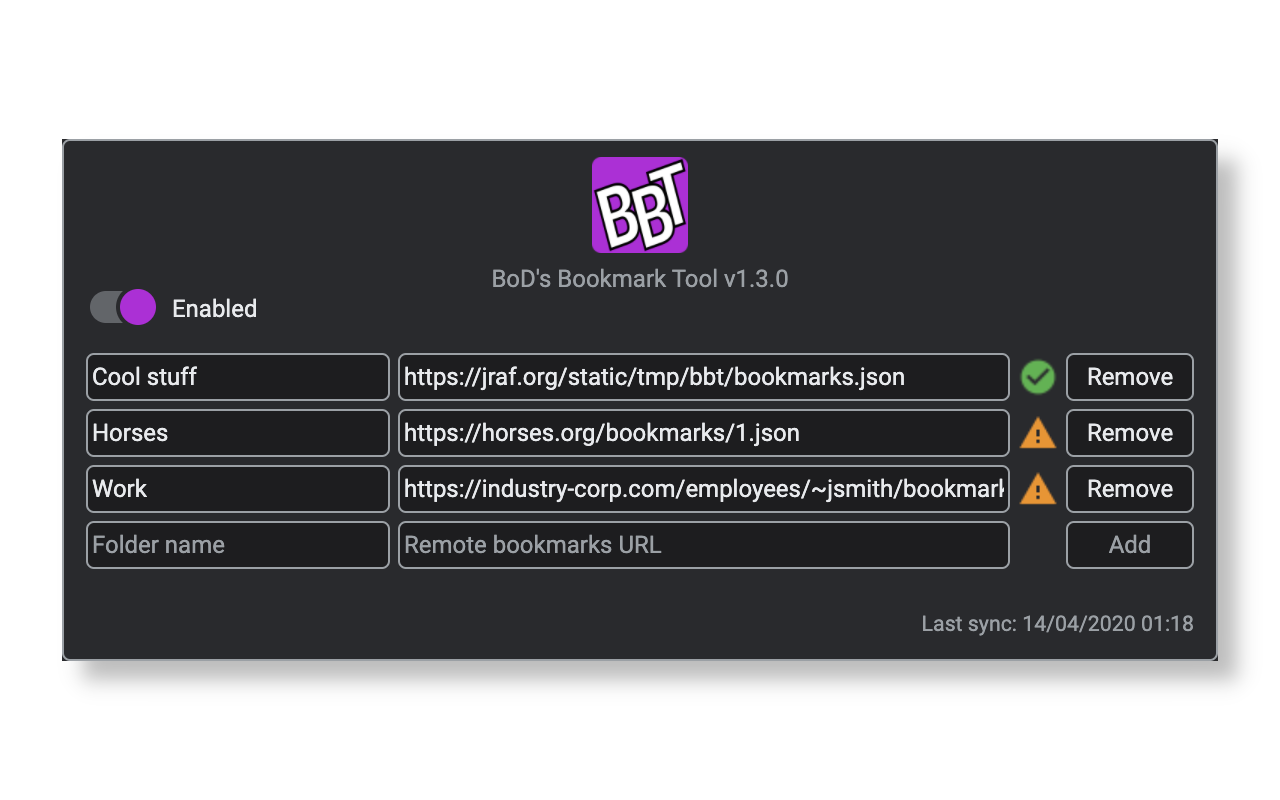
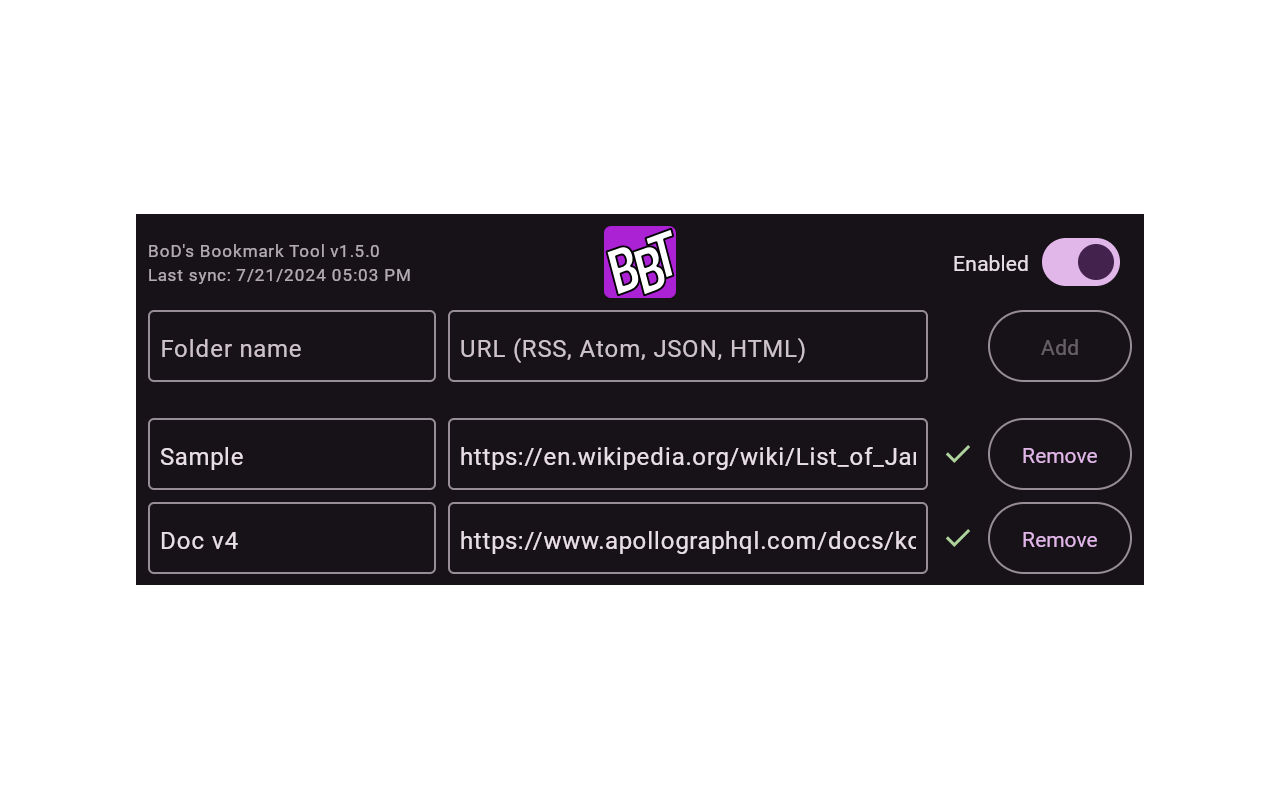
Accept list of A in XPath

diff --git a/offscreen/src/jsMain/kotlin/org/jraf/bbt/offscreen/domparser/DomParserBookmarkExtractor.kt b/offscreen/src/jsMain/kotlin/org/jraf/bbt/offscreen/domparser/DomParserBookmarkExtractor.kt
@@ -30,8 +30,10 @@ import org.jraf.bbt.shared.bookmarks.BookmarksDocument
 import org.jraf.bbt.shared.logging.logd
 import org.jraf.bbt.shared.logging.logw
 import org.jraf.bbt.shared.util.relativeTo
+import org.w3c.dom.Document
 import org.w3c.dom.Element
 import org.w3c.dom.HTMLAnchorElement
+import org.w3c.dom.Node
 import org.w3c.dom.XMLDocument
 import org.w3c.dom.asList
 import org.w3c.dom.evaluate
@@ -80,7 +82,9 @@ class DomParserBookmarkExtractor {
 
   /**
    * Extract bookmarks from a body that is an HTML document.
-   * If [xPath] is not null, only the element at this XPath will be considered.
+   * If [xPath] is not null, only the element(s) at this XPath will be considered.
+   *
+   * The XPath expression can either point to a list of `A` elements, or to a single (non `A`) element in which case, a list of `A` elements will be searched in its children.
    */
   fun extractBookmarksFromHtml(
     body: String,
@@ -89,34 +93,21 @@ class DomParserBookmarkExtractor {
   ): BookmarksDocument? {
     return try {
       val document = DOMParser().parseFromString(body, "text/html")
-      val root = if (xPath != null) {
-        // TODO XPath should return a list of <A>s, instead of returning the root from where to extract the <A>s
+      val aElems: List<Element> = if (xPath != null) {
         logd("Using XPath expression: $xPath")
-        val element = try {
-          val xPathResult = document.evaluate(xPath, document, null, XPathResult.FIRST_ORDERED_NODE_TYPE, null)
-          xPathResult.singleNodeValue as? Element
-        } catch (t: Throwable) {
-          logw("Error evaluating XPath expression '$xPath': ${t.message} %O", t.stackTraceToString())
-          return null
-        }
-        if (element == null) {
-          logw("Node at XPath expression '$xPath' not found or not an Element")
-          return null
-        } else {
-          element
-        }
+        document.getAElementsAtXPath(xPath) ?: return null
       } else {
-        document.body
-      } ?: run {
-        logw("No body found in the document")
-        return null
+        (document.body ?: run {
+          logw("No body found in the document")
+          return null
+        }).getElementsByTagName("a").asList()
       }
-      val aElems = root.getElementsByTagName("a").asList()
+
       logd("Found ${aElems.size} <a> elements")
       BookmarksDocument(
         bookmarks = aElems.mapNotNull { aElem ->
           aElem as HTMLAnchorElement
-          val title = aElem.textContent?.trim()?.ifBlank { null } ?: "Untitled"
+          val title = aElem.innerText.trim().ifBlank { "Untitled" }
           BookmarkItem(
             title = title,
             url = aElem.getAttribute("href")
@@ -131,5 +122,49 @@ class DomParserBookmarkExtractor {
       logw("Text can't be parsed as HTML: ${t.message} %O", t.stackTraceToString())
       null
     }
+  }
+
+  private fun Document.getAElementsAtXPath(xPath: String): List<HTMLAnchorElement>? {
+    return try {
+      val nodesAtXpath = getNodesAtXPath(xPath)
+      if (nodesAtXpath.size == 1) {
+        // Single element
+        val singleNode = nodesAtXpath[0]
+        if (singleNode is HTMLAnchorElement) {
+          // Single A
+          nodesAtXpath
+        } else {
+          // Single non-A
+          val singleElement = singleNode as? Element
+          if (singleElement == null) {
+            logw("Element at XPath is not an Element: $singleNode")
+            null
+          } else {
+            singleElement.getElementsByTagName("a").asList()
+          }
+        }
+      } else {
+        // Multiple elements
+        nodesAtXpath
+      }?.filterIsInstance<HTMLAnchorElement>()
+    } catch (t: Throwable) {
+      logw("Error evaluating XPath expression '$xPath': ${t.message} %O", t.stackTraceToString())
+      null
+    }
+  }
+
+  private fun Document.getNodesAtXPath(xPath: String): MutableList<Node> {
+    val xPathResult = evaluate(xPath, this, null, XPathResult.ANY_TYPE, null)
+    logd("XPath result type: ${xPathResult.resultType}")
+    val nodesAtXpath = mutableListOf<Node>()
+    var node: Node?
+    while (true) {
+      node = xPathResult.iterateNext()
+      if (node == null) {
+        break
+      }
+      nodesAtXpath.add(node)
+    }
+    return nodesAtXpath
   }
 }

diff --git a/shared/src/jsMain/kotlin/org/jraf/bbt/shared/settings/SettingsManager.kt b/shared/src/jsMain/kotlin/org/jraf/bbt/shared/settings/SettingsManager.kt
@@ -79,7 +79,7 @@ class SettingsManager private constructor() {
         syncItems = listOf(
           SyncItem(
             folderName = "Sample",
-            remoteBookmarksUrl = "https://en.wikipedia.org/wiki/Wikipedia:Featured_articles#__xpath=//h3[@data-mw-thread-id='h-Elements-Chemistry_and_mineralogy']/following-sibling::*[1]"
+            remoteBookmarksUrl = "https://en.wikipedia.org/wiki/List_of_James_Bond_films#__xpath=//table//th/i//a"
           )
         )
       )

diff --git a/README.md b/README.md
@@ -1,17 +1,32 @@
 # BoD's Bookmark Tool
 
-This very small and simple extension for Chrome and Firefox allows you to synchronize any bookmark folder with a remote file.
+This small extension for Chrome and Firefox allows you to synchronize any bookmark folder with a remote document.
 
 Ideal to share a bunch of bookmarks with your team at work, or your loved ones!
+
+<img src="https://raw.githubusercontent.com/BoD/bbt/master/assets/Screenshot-firefox.png" alt="BoD's Bookmark Tool" width="504">
 
 ## Setup
 
 - Chrome: [Chrome Web Store](https://chrome.google.com/webstore/detail/plhhpanklegnkjipjebhdbcfdjdhkpfb).
 - Firefox: [Firefox Add-ons](https://addons.mozilla.org/en-US/firefox/addon/bod-s-bookmark-tool/).
 
-## Remote file format
+## Supported remote document formats
 
-The remote file can either be RSS, Atom, or a proprietary "bookmarks" JSON format.
+The remote document can either be RSS, Atom, HTML, or a proprietary "bookmarks" JSON format.
+
+### RSS / Atom
+
+The `item` elements will be extracted from the feed, and the `title` and `link` elements / `href` attributes will be used to create the
+bookmarks.
+
+### HTML
+
+All `A` elements of the document will be extracted, unless an XPath expression is provided in the URL.
+To do so, append `#__xpath=<expression>` to the URL, for instance `https://example.com/bookmarks.html#__xpath=//div[@id='bookmarks']`.
+The XPath can either refer to a list of `A` elements, or a single container from which the embedded `A` elements will be extracted.
+
+### "bookmarks" JSON
 
 The "bookmarks" JSON format looks like this:
 
@@ -45,7 +60,7 @@ The "bookmarks" JSON format looks like this:
 - This is [Kotlin/JS project](https://kotlinlang.org/docs/reference/js-overview.html)
 - You will need a version of the [JDK](https://en.wikipedia.org/wiki/Java_Development_Kit) on your system
 - After cloning this repository, issue this command: `./gradlew dist`
-- This will compile and package the plugin, and the resulting `bbt-<version>.zip` file will be in the `build/distributions` folder
+- This will compile and package the plugin, and the resulting `bbt-<version>.zip` file will be in the `build/dist` folder
 
 ## License
 

diff --git a/CHANGELOG.md b/CHANGELOG.md
@@ -1,9 +1,10 @@
 # Changelog
 
-## v1.5.0 - 2024-06-30
+## v1.5.0 - 2024-07-21
 
 - Handle HTML as a format in addition to RSS, Atom and Bookmarks Json format.
 - Migrate to the Manifest v3 format.
+- Migrate the UI to Compose.
 
 ## v1.4.0 - 2021-12-12
 
